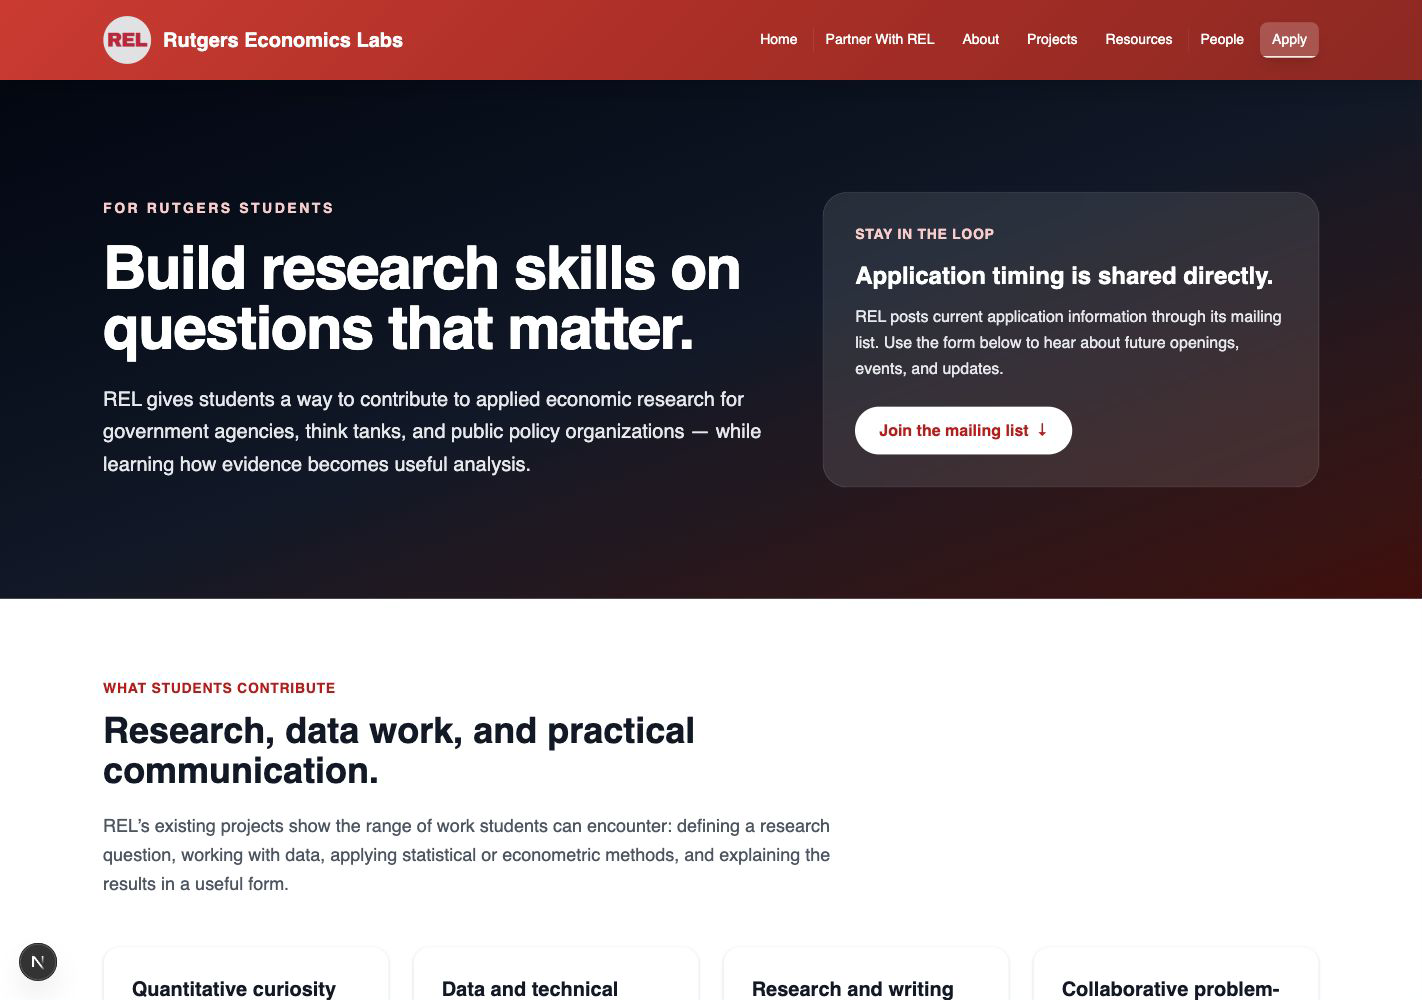
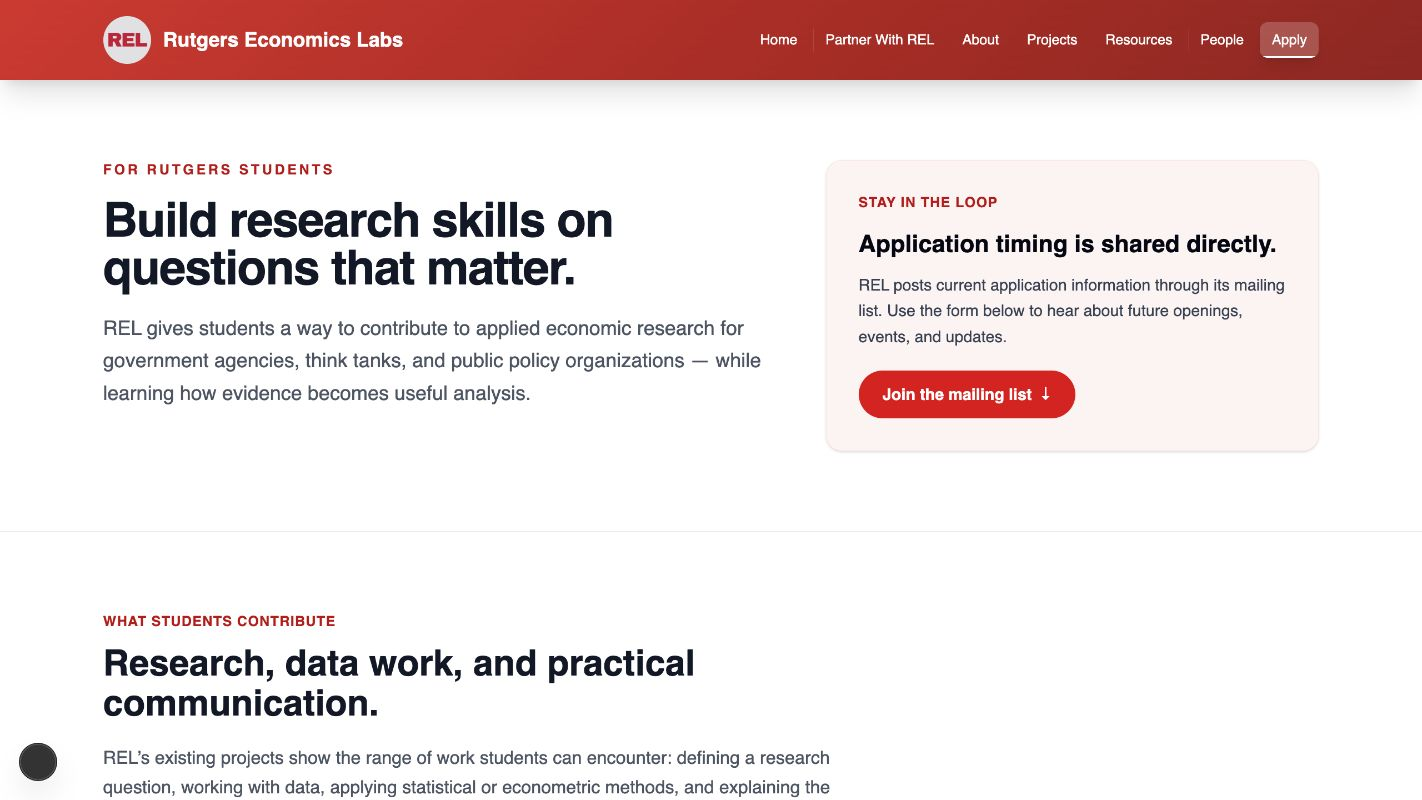
Align partner and student page styling

diff --git a/src/app/apply/page.tsx b/src/app/apply/page.tsx
@@ -16,6 +16,12 @@ const faqs = [
   ['Will every project be public?', 'No. REL project pages clearly label public, private, internal, and withheld work. A public artifact is shared only when one is available.'],
 ];
 
+const applicationContext = [
+  ['Relevant preparation', 'A current application may ask about coursework, tools, research, data projects, or other experience that shows how you approach evidence.'],
+  ['Your interests', 'It helps to explain the kinds of economic, data, or public-policy questions you are curious to investigate.'],
+  ['Next steps', 'REL shares any current application instructions and follow-up process directly, so the posted materials remain the source of truth.'],
+];
+
 export default function ApplyPage() {
   const [firstName, setFirstName] = useState('');
   const [lastName, setLastName] = useState('');
@@ -57,18 +63,18 @@ export default function ApplyPage() {
 
   return (
     <>
-      <section className="bg-gradient-to-br from-gray-950 via-gray-900 to-red-950 text-white py-20 sm:py-28">
-        <div className="max-w-7xl mx-auto px-4 sm:px-6 lg:px-8 grid lg:grid-cols-[1.15fr_0.85fr] gap-12 items-center">
-          <div>
-            <p className="text-red-200 font-semibold uppercase tracking-[0.18em] text-sm mb-5">For Rutgers students</p>
-            <h1 className="text-5xl sm:text-6xl font-bold tracking-tight mb-6">Build research skills on questions that matter.</h1>
-            <p className="text-xl text-gray-200 leading-relaxed max-w-2xl">REL gives students a way to contribute to applied economic research for government agencies, think tanks, and public policy organizations — while learning how evidence becomes useful analysis.</p>
-          </div>
-          <aside className="rounded-3xl bg-white/10 border border-white/15 p-7 sm:p-8 backdrop-blur-sm">
-            <p className="text-red-200 font-semibold uppercase tracking-wider text-sm mb-4">Stay in the loop</p>
-            <h2 className="text-2xl font-bold mb-3">Application timing is shared directly.</h2>
-            <p className="text-gray-200 leading-relaxed mb-6">REL posts current application information through its mailing list. Use the form below to hear about future openings, events, and updates.</p>
-            <a href="#mailing-list" className="inline-flex rounded-full bg-white px-6 py-3 font-semibold text-red-700 hover:bg-red-50 transition-colors">Join the mailing list <span aria-hidden="true" className="ml-2">↓</span></a>
+      <section className="py-16 sm:py-20 bg-[var(--bg-secondary)] border-b border-[var(--border-color)]">
+        <div className="max-w-7xl mx-auto px-4 sm:px-6 lg:px-8 grid lg:grid-cols-[1.15fr_0.85fr] gap-10 lg:gap-14 items-start">
+          <header className="max-w-3xl">
+            <p className="text-red-700 font-semibold uppercase tracking-[0.18em] text-sm mb-4">For Rutgers students</p>
+            <h1 className="text-4xl sm:text-5xl font-bold tracking-tight text-[var(--text-primary)] mb-5">Build research skills on questions that matter.</h1>
+            <p className="text-xl text-[var(--text-secondary)] leading-relaxed max-w-2xl">REL gives students a way to contribute to applied economic research for government agencies, think tanks, and public policy organizations — while learning how evidence becomes useful analysis.</p>
+          </header>
+          <aside className="rounded-2xl border border-red-100 bg-red-50 p-7 sm:p-8 shadow-sm">
+            <p className="text-red-700 font-semibold uppercase tracking-wider text-sm mb-4">Stay in the loop</p>
+            <h2 className="text-2xl font-bold text-gray-950 mb-3">Application timing is shared directly.</h2>
+            <p className="text-gray-700 leading-relaxed mb-5">REL posts current application information through its mailing list. Use the form below to hear about future openings, events, and updates.</p>
+            <a href="#mailing-list" className="inline-flex rounded-full bg-red-600 px-6 py-3 font-semibold text-white hover:bg-red-700 transition-colors">Join the mailing list <span aria-hidden="true" className="ml-2">↓</span></a>
           </aside>
         </div>
       </section>
@@ -103,7 +109,20 @@ export default function ApplyPage() {
         </div>
       </section>
 
-      <section id="mailing-list" className="py-20 bg-[var(--bg-secondary)]">
+      <section className="py-20 bg-[var(--bg-secondary)]">
+        <div className="max-w-7xl mx-auto px-4 sm:px-6 lg:px-8 grid lg:grid-cols-[0.85fr_1.15fr] gap-10 lg:gap-14 items-start">
+          <div>
+            <p className="text-red-700 font-semibold uppercase tracking-wider text-sm mb-3">Application context</p>
+            <h2 className="text-4xl font-bold text-[var(--text-primary)] mb-5">What a current application can help you communicate.</h2>
+            <p className="text-lg text-[var(--text-secondary)] leading-relaxed">You do not need to infer requirements from an old date or a generic checklist. When an opportunity is posted, use its instructions and describe the preparation that is most relevant to the work.</p>
+          </div>
+          <div className="grid gap-4">
+            {applicationContext.map(([title, description]) => <article key={title} className="rounded-2xl border border-[var(--card-border)] bg-[var(--bg-primary)] p-6"><h3 className="text-xl font-bold text-[var(--text-primary)] mb-2">{title}</h3><p className="text-[var(--text-secondary)] leading-relaxed">{description}</p></article>)}
+          </div>
+        </div>
+      </section>
+
+      <section id="mailing-list" className="py-20 bg-[var(--bg-primary)] border-t border-[var(--border-color)]">
         <div className="max-w-5xl mx-auto px-4 sm:px-6 lg:px-8 grid lg:grid-cols-[0.85fr_1.15fr] gap-10 items-start">
           <div>
             <p className="text-red-700 font-semibold uppercase tracking-wider text-sm mb-3">Mailing list</p>

diff --git a/src/app/partner-with-rel/page.tsx b/src/app/partner-with-rel/page.tsx
@@ -30,22 +30,22 @@ const process = [
 export default function PartnerWithRelPage() {
   return (
     <>
-      <section className="bg-gradient-to-br from-gray-950 via-gray-900 to-red-950 text-white py-20 sm:py-28">
-        <div className="max-w-7xl mx-auto px-4 sm:px-6 lg:px-8 grid lg:grid-cols-[1.1fr_0.9fr] gap-12 items-center">
-          <div>
-            <p className="text-red-200 font-semibold uppercase tracking-[0.18em] text-sm mb-5">For public-interest organizations</p>
-            <h1 className="text-5xl sm:text-6xl font-bold tracking-tight mb-6">Partner with REL on an economics or data question.</h1>
-            <p className="text-xl text-gray-200 leading-relaxed max-w-2xl">Rutgers Economics Labs provides pro bono applied economics and data analysis for government agencies, think tanks, and public policy organizations. We pair rigorous student research with questions that matter outside the classroom.</p>
-            <div className="mt-9 flex flex-col sm:flex-row gap-4">
-              <a href="mailto:rel@rutgerseconomics.org?subject=REL%20project%20proposal" className="inline-flex justify-center items-center rounded-full bg-white px-7 py-3.5 font-semibold text-red-700 hover:bg-red-50 transition-colors shadow-lg"><Mail className="mr-2 h-5 w-5" aria-hidden="true" />Propose a Project</a>
-              <Link href="/projects" className="inline-flex justify-center items-center rounded-full border border-white/40 px-7 py-3.5 font-semibold text-white hover:bg-white/10 transition-colors">Explore project work <ArrowRight className="ml-2 h-5 w-5" aria-hidden="true" /></Link>
+      <section className="py-16 sm:py-20 bg-[var(--bg-secondary)] border-b border-[var(--border-color)]">
+        <div className="max-w-7xl mx-auto px-4 sm:px-6 lg:px-8 grid lg:grid-cols-[1.1fr_0.9fr] gap-10 lg:gap-14 items-start">
+          <header className="max-w-3xl">
+            <p className="text-red-700 font-semibold uppercase tracking-[0.18em] text-sm mb-4">For public-interest organizations</p>
+            <h1 className="text-4xl sm:text-5xl font-bold tracking-tight text-[var(--text-primary)] mb-5">Partner with REL on an economics or data question.</h1>
+            <p className="text-xl text-[var(--text-secondary)] leading-relaxed max-w-2xl">Rutgers Economics Labs provides pro bono applied economics and data analysis for government agencies, think tanks, and public policy organizations. We pair rigorous student research with questions that matter outside the classroom.</p>
+            <div className="mt-8 flex flex-col sm:flex-row gap-4">
+              <a href="mailto:rel@rutgerseconomics.org?subject=REL%20project%20proposal" className="inline-flex justify-center items-center rounded-full bg-red-600 px-7 py-3.5 font-semibold text-white hover:bg-red-700 transition-colors shadow-lg"><Mail className="mr-2 h-5 w-5" aria-hidden="true" />Propose a Project</a>
+              <Link href="/projects" className="inline-flex justify-center items-center rounded-full border border-[var(--border-color)] bg-[var(--bg-primary)] px-7 py-3.5 font-semibold text-[var(--text-primary)] hover:bg-[var(--bg-tertiary)] transition-colors">Explore project work <ArrowRight className="ml-2 h-5 w-5" aria-hidden="true" /></Link>
             </div>
-          </div>
-          <aside className="rounded-3xl border border-white/15 bg-white/10 p-7 sm:p-8 backdrop-blur-sm">
-            <p className="text-red-200 font-semibold text-sm uppercase tracking-wider mb-5">A low-friction first step</p>
-            <h2 className="text-2xl font-bold mb-4">A few lines are enough to begin.</h2>
-            <p className="text-gray-200 leading-relaxed mb-6">Tell us the question you are considering, the audience for the work, and whether you expect to use public or non-public data. We can take it from there.</p>
-            <a className="text-white font-semibold underline underline-offset-4 hover:text-red-100 focus-visible:outline-white" href="mailto:rel@rutgerseconomics.org?subject=REL%20project%20proposal">rel@rutgerseconomics.org</a>
+          </header>
+          <aside className="rounded-2xl border border-red-100 bg-red-50 p-7 sm:p-8 shadow-sm">
+            <p className="text-red-700 font-semibold text-sm uppercase tracking-wider mb-4">A low-friction first step</p>
+            <h2 className="text-2xl font-bold text-gray-950 mb-3">A few lines are enough to begin.</h2>
+            <p className="text-gray-700 leading-relaxed mb-5">Tell us the question you are considering, the audience for the work, and whether you expect to use public or non-public data. We can take it from there.</p>
+            <a className="text-red-700 font-semibold underline underline-offset-4 hover:text-red-800 focus-visible:outline-red-700" href="mailto:rel@rutgerseconomics.org?subject=REL%20project%20proposal">rel@rutgerseconomics.org</a>
           </aside>
         </div>
       </section>

diff --git a/src/app/page.tsx b/src/app/page.tsx
@@ -72,6 +72,12 @@ export default function Home() {
                   Join Our Team
                 </Link>
               </div>
+              <p className="mt-6 text-sm sm:text-base text-white/80">
+                Represent an organization?{' '}
+                <Link href="/partner-with-rel" className="font-semibold text-red-200 underline underline-offset-4 hover:text-white focus-visible:outline-white">
+                  Partner with REL →
+                </Link>
+              </p>
             </div>
           </div>
         </div>
